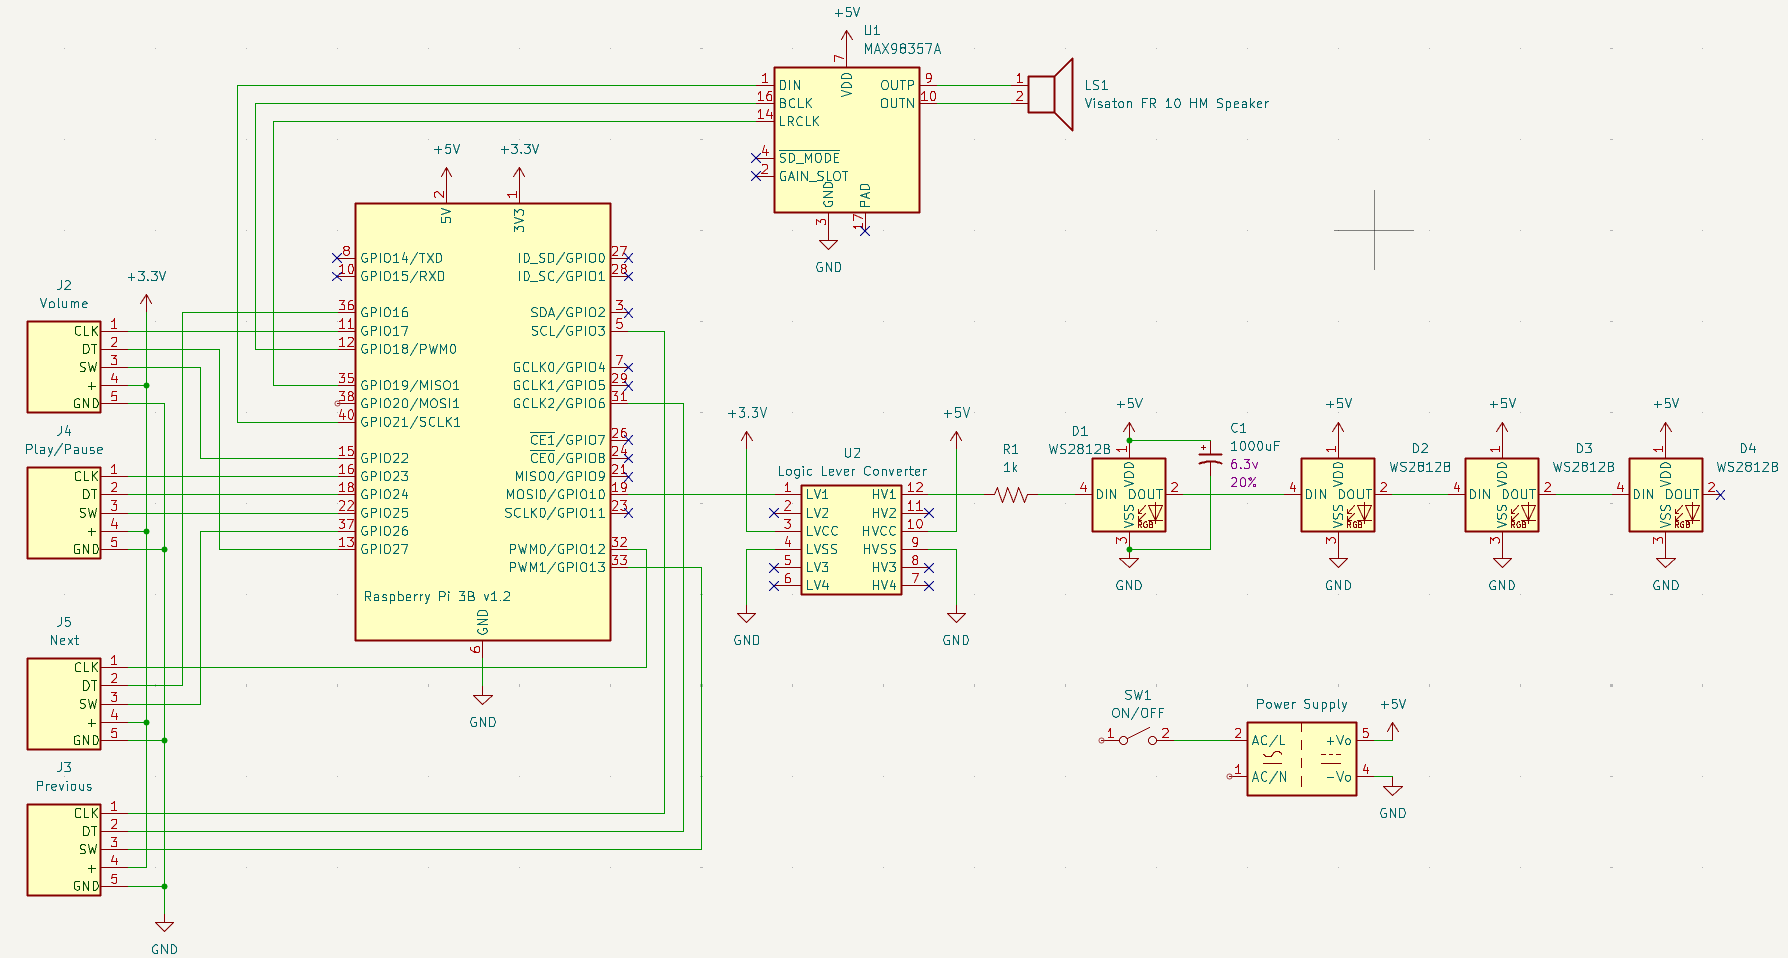
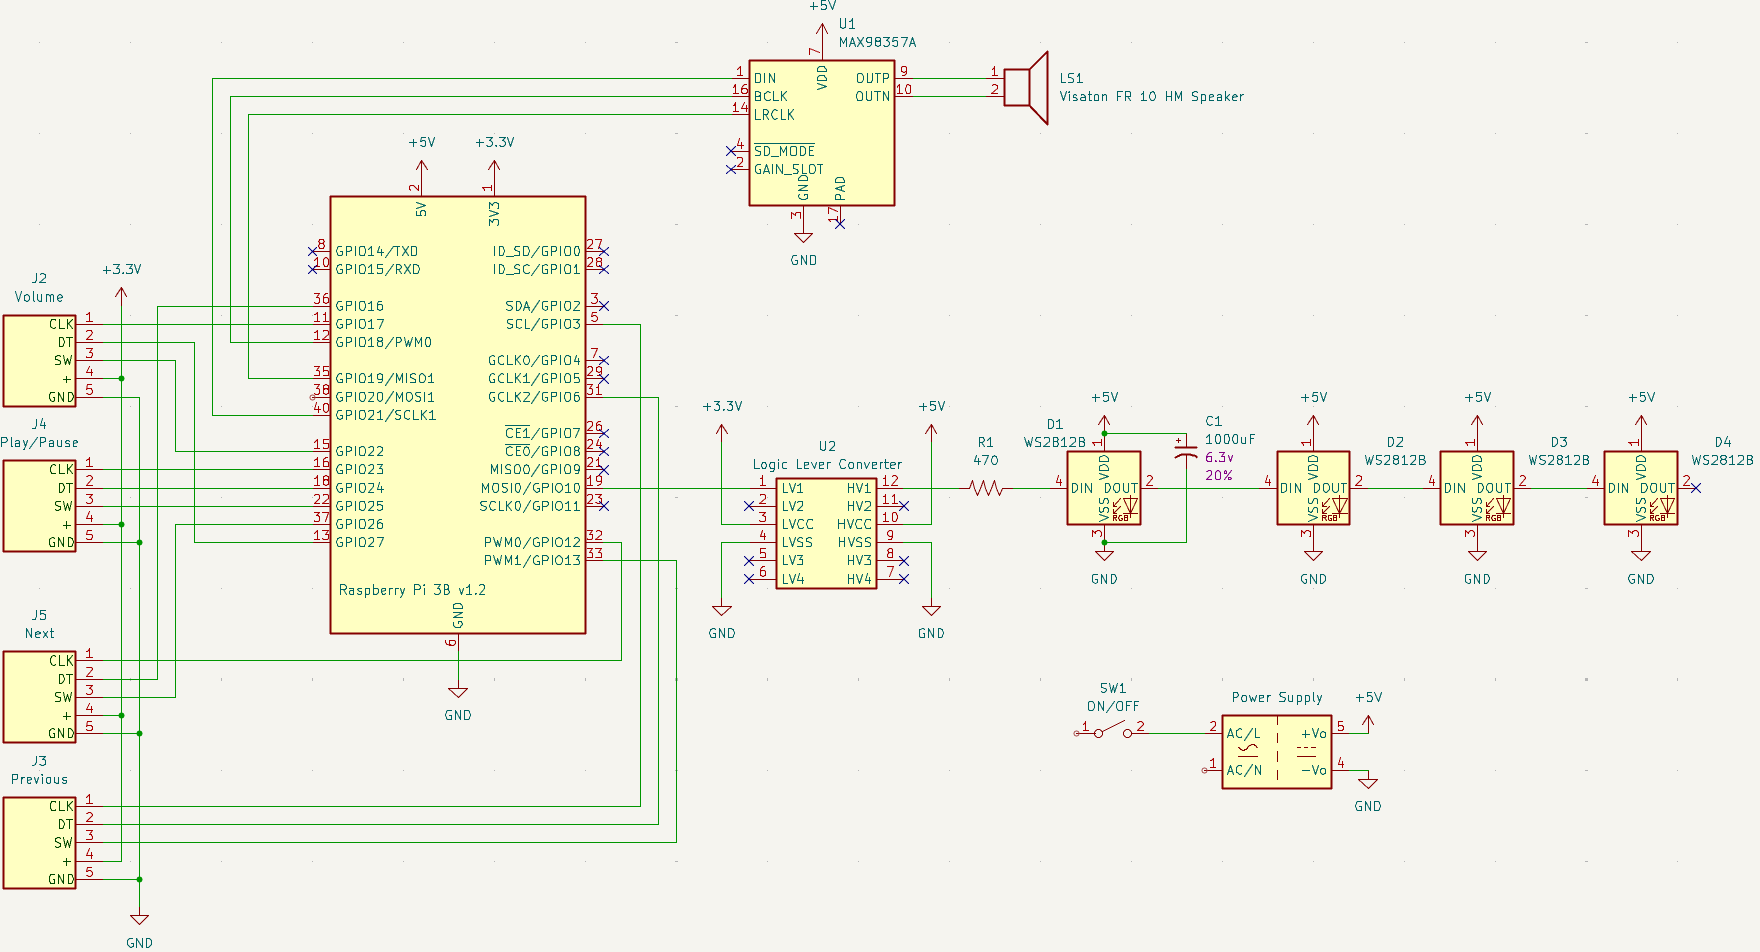
Update wiring docs and schematic to match current design

diff --git a/wiring.md b/wiring.md
@@ -1,10 +1,8 @@
 # Spotifoni Wiring
 
-![System Wiring Diagram](diagrams/wiring.svg)
+![Schematic](spotifoni%20schematic.png)
 
 ## GPIO Allocation
-
-![GPIO Allocation](diagrams/gpio.svg)
 
 | Function | GPIO Pins | Header Pins |
 |---|---|---|
@@ -12,59 +10,62 @@
 | Encoder 2 — Previous | GPIO 5, 6, 13 | 29, 31, 33 |
 | Encoder 3 — Play/Pause | GPIO 23, 24, 25 | 16, 18, 22 |
 | Encoder 4 — Next | GPIO 12, 16, 26 | 32, 36, 37 |
-| WS2812 LED data (SPI0 MOSI) | GPIO 10 | 19 |
+| WS2812B LED data | GPIO 10 | 19 |
 | SPI0 (reserved by driver) | GPIO 7, 8, 9, 11 | 26, 24, 21, 23 |
 | *I²S bus (allocated)* | GPIO 18, 19, 21 | 12, 35, 40 |
 
-## I2S Amplifier
+## I²S Amplifier (U1 — MAX98357A)
 
 | Pi Header | Function | MAX98357A |
 |---|---|---|
-| Pin 2 | 5V Power | VIN |
+| Pin 2 | 5V Power | VDD |
 | Pin 6 | Ground | GND |
 | Pin 12 | GPIO 18 · PCM_CLK | BCLK |
 | Pin 35 | GPIO 19 · PCM_FS | LRCLK |
 | Pin 40 | GPIO 21 · PCM_DOUT | DIN |
 
-The amp's GAIN pin can be left unconnected (9dB default), or tied to GND for 12dB or 3.3V for 15dB.
+Speaker output (OUTP/OUTN) connects to a Visaton FR 10 HM 8Ω speaker.
 
-## WS2812B LED Display
+## WS2812B LED Display (D1–D4)
 
-The LED data signal passes through a 74AHCT125 level shifter to convert 3.3V GPIO to the 5V logic the WS2812B expects.
+The LED data signal passes through a logic level converter (U2) to shift GPIO 10's 3.3V output to 5V. A 1kΩ resistor (R1) sits between the level converter output and the first LED's DIN pin.
 
 | From | To | Notes |
 |---|---|---|
-| Pi GPIO 10 (Pin 19) | 74AHCT125 pin 2 (1A) | 3.3V data from SPI MOSI |
-| 74AHCT125 pin 3 (1Y) | 470Ω resistor → WS2812 DIN | 5V level-shifted data out |
-| Pi 5V (Pin 4) | 74AHCT125 pin 14 (VCC) | Level shifter 5V supply |
-| Pi GND (Pin 14) | 74AHCT125 pin 7 (GND) | Ground |
-| Pi GND (Pin 14) | 74AHCT125 pin 1 (1OE) | Active-low enable — tie to GND |
-| 5V rail | 1000µF cap (+) → WS2812 VCC | Separate power wire, not through Pi |
-| GND rail | 1000µF cap (−) → WS2812 GND | |
+| Pi GPIO 10 (Pin 19) | U2 LV1 (pin 1) | 3.3V data from SPI MOSI |
+| U2 HV1 (pin 12) | R1 (470Ω) → D1 WS2812B DIN | 5V level-shifted data out |
+| Pi 3.3V (Pin 1) | U2 LVCC (pin 3) | Level converter low-side supply |
+| 5V rail | U2 HVCC (pin 9) | Level converter high-side supply |
+| GND | U2 LVSS (pin 5), U2 HVSS (pin 4) | Common ground |
+| 5V rail | C1 1000µF cap (+) → D1 VDD | Bulk decoupling for LED chain |
+| GND | C1 1000µF cap (−) → D1 VSS | |
 
-## Encoder Wiring
+LEDs are daisy-chained: D1 DOUT → D2 DIN → D3 DIN → D4 DIN. Each LED's VDD connects to 5V and VSS to GND.
+
+## Encoder Wiring (J2–J5)
 
 All four encoders use the same wiring pattern. Connect each encoder's `+` pin to **3.3V** and `GND` to ground. The CLK, DT, and SW pins connect to the GPIO pins listed in the allocation table above.
 
 | KY-040 Pin | Connects To | Notes |
 |---|---|---|
 | + | Pi 3.3V (Pin 1) | **Not 5V** — Pi GPIOs are 3.3V only |
-| GND | Pi GND (Pin 9) | Shared ground rail |
+| GND | Pi GND | Shared ground rail |
 | CLK (A) | GPIO per table | Quadrature channel A |
 | DT (B) | GPIO per table | Quadrature channel B |
 | SW | GPIO per table | Push button (use internal pull-up) |
 
+## Power Supply
+
+An AC/DC power supply provides 5V to the system through an on/off switch (SW1). The Pi, MAX98357A, level converter high side, and WS2812B LEDs all run from this 5V rail.
+
 ## Setup Notes
 
-1. Enable I2S output: add `dtoverlay=hifiberry-dac` to `/boot/firmware/config.txt` and reboot.
+1. Enable I²S output: add `dtoverlay=hifiberry-dac` to `/boot/firmware/config.txt` and reboot.
 2. Enable SPI: add `dtparam=spi=on` to `/boot/firmware/config.txt` and reboot.
 3. Test audio: `speaker-test -D hw:0 -t sine`.
-4. Power the Pi via its micro-USB port with a ≥2.5A supply. The MAX98357A draws 5V from the Pi's GPIO header (Pin 2).
-5. Connect encoders to **3.3V (Pin 1), not 5V**. Pi GPIO pins are 3.3V-tolerant only — 5V will damage them.
-6. The KY-040 has onboard 10kΩ pull-ups on CLK and DT. No external resistors needed. The SW pin uses the Pi's internal pull-up (configured in software).
-7. The SPI driver claims GPIO 7, 8, 9, 10, 11 — only GPIO 10 (MOSI) is physically wired.
-8. The 74AHCT125 must be powered at 5V to output 5V logic. It accepts 3.3V input as logic high. Do not substitute a 74HC125 (it requires a higher input threshold).
-9. The 470Ω resistor goes between the level shifter output and the first LED's DIN pin to prevent signal reflections.
-10. The 1000µF capacitor goes across the LED strip's 5V and GND pins, as close to the strip as possible.
-11. For 8 LEDs, power can be drawn from the Pi's 5V header via a separate wire. For larger chains (>16 LEDs), use a dedicated 5V supply with common ground.
-12. Chain additional LED sticks by connecting DOUT of one stick to DIN of the next. Update `LED_COUNT` in software to match.
+4. Connect encoders to **3.3V (Pin 1), not 5V**. Pi GPIO pins are 3.3V-tolerant only — 5V will damage them.
+5. The KY-040 has onboard 10kΩ pull-ups on CLK and DT. No external resistors needed. The SW pin uses the Pi's internal pull-up (configured in software).
+6. The SPI driver claims GPIO 7, 8, 9, 10, 11 — only GPIO 10 (MOSI) is physically wired.
+7. The 470Ω resistor goes between the level converter output and the first LED's DIN pin to protect against voltage spikes during power-on.
+8. The 1000µF electrolytic capacitor (6.3V, 20%) goes across the first LED's VDD and GND, as close to D1 as possible.
+9. Chain additional LEDs by connecting DOUT of one module to DIN of the next. Update `LED_COUNT` in software to match.